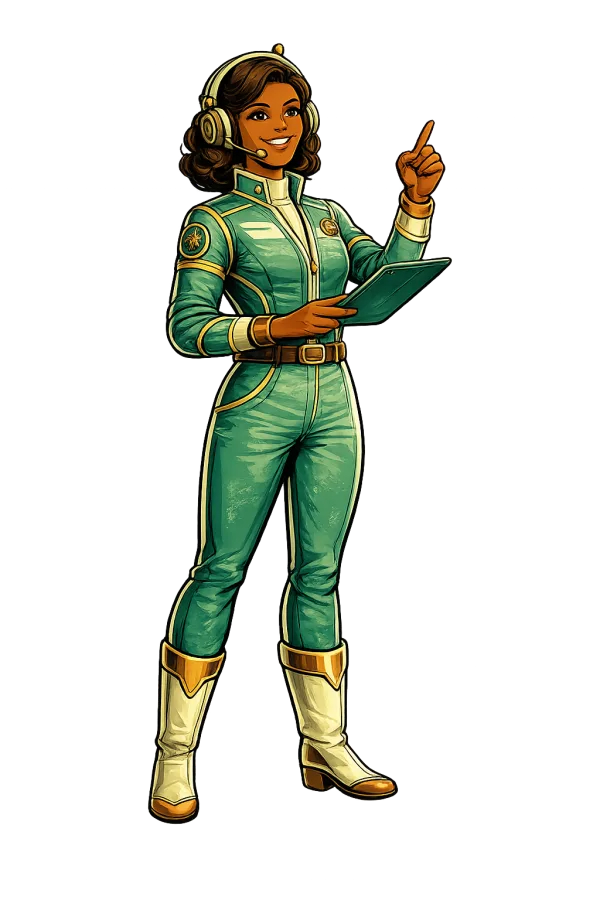
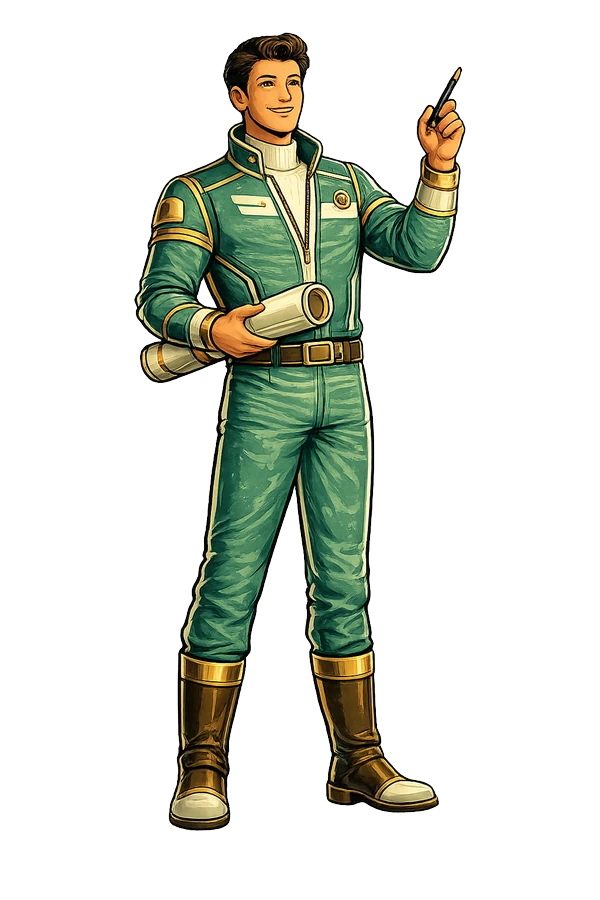
ui(marketing): move the designer to Ship, put the laptop on Automate
Ship takes the figure that was on Automate — the designer with rolled plans and
a pen — and Automate gets the developer holding a laptop with a launch on the
screen.

The props land better this way round. You draw a plan before you build a site,
which is Ship's claim ("sites, storefront and an editorial calendar on one
visual editor"); and Automate's claim is the thing that runs without you, which
is what a laptop mid-launch shows. Rolled plans never said "workflow engine".

Ship's art is a straight copy of the file Automate was using, so it keeps the
shared frame exactly. The laptop developer is cut to the same convention as the
other four — alpha>32 bbox, 799px tall, feet at y=831 — and lands 369x799 at
(134, 32). All five verified standing on one baseline in the rendered row, with
every image confirmed decoded (naturalWidth > 0) before the screenshot rather
than after a guessed delay: a first capture showed two lanes empty purely
because the optimizer had not finished warming after a cache clear.

Also rewrites the prop-to-lane comment, which had drifted twice and still
claimed "blueprint on Ship" from an assignment two swaps ago. It is now a plain
five-line table of what each figure holds and why.

Tokens (approx): ~35k

Claude-Session: https://claude.ai/code/session_01LN3kPaGZJodcmwYTpfqw2H

Changed region(s): [[0.21, 0.0311, 0.78, 0.9333]]

diff --git a/app/(pages)/HomeClient.tsx b/app/(pages)/HomeClient.tsx
@@ -99,12 +99,14 @@ const restModules: ManifestModule[] = [
 // Art is named for the LANE, not the character, so a reassignment is a file
 // replacement rather than a rename hunt through the codebase.
 //
-// Each figure is picked so the prop matches the work — blueprint on Ship,
-// checklist on Serve, tablet on Know, rolled plans and a pen on Automate (you
-// draw a workflow before you run it) — and so the row reads as distinct
-// individuals rather than one archetype recoloured. Serve is a service robot
-// rather than a person, which is also the honest illustration for the lane that
-// includes an AI chatbot answering at 2am.
+// Each figure is picked so the prop matches the work, and so the row reads as
+// distinct individuals rather than one archetype recoloured:
+//   Sell      helmet under one arm, mid-wave — the greeting
+//   Ship      rolled plans and a pen — you draw it before you build it
+//   Serve     a service robot with a checklist, not a person: the honest
+//             illustration for the lane that includes a chatbot answering at 2am
+//   Know      tablet and stylus — reading back what the company already knows
+//   Automate  a laptop running a launch — the thing that goes without you
 //
 // Frame convention, if a lane's art is ever re-cut: 600x900 canvas, figure
 // trimmed on an alpha>32 bbox (the sources carry a faint glow that alpha>0
